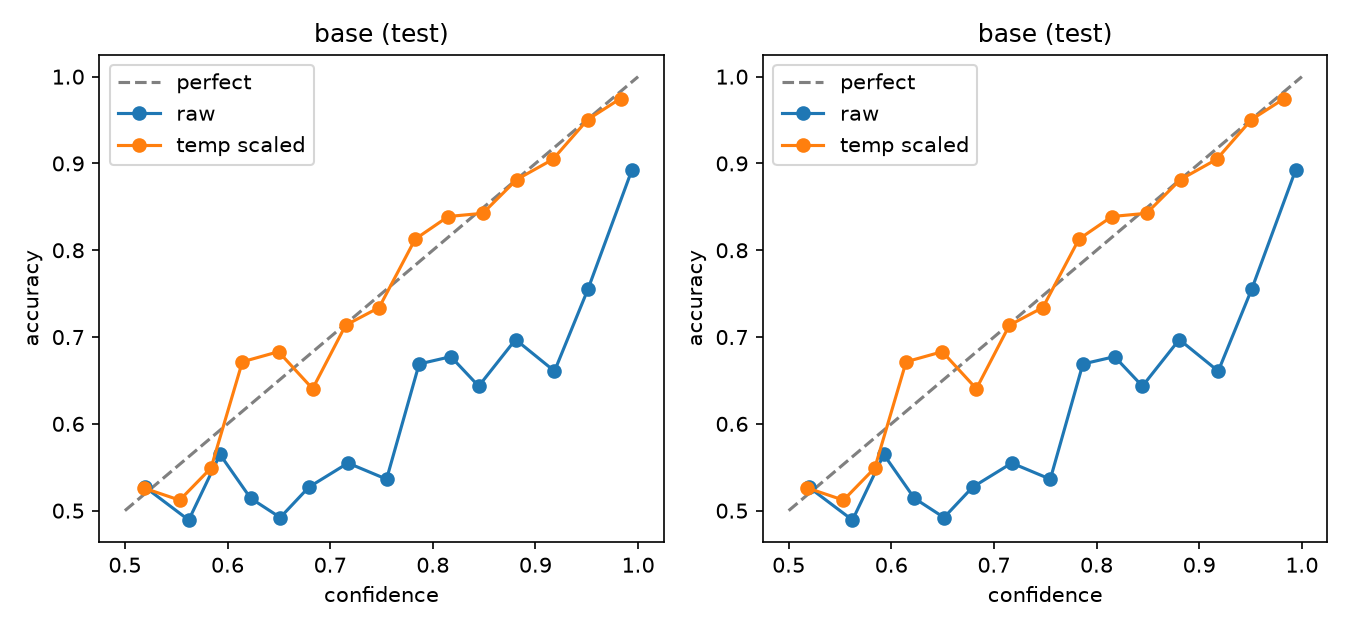
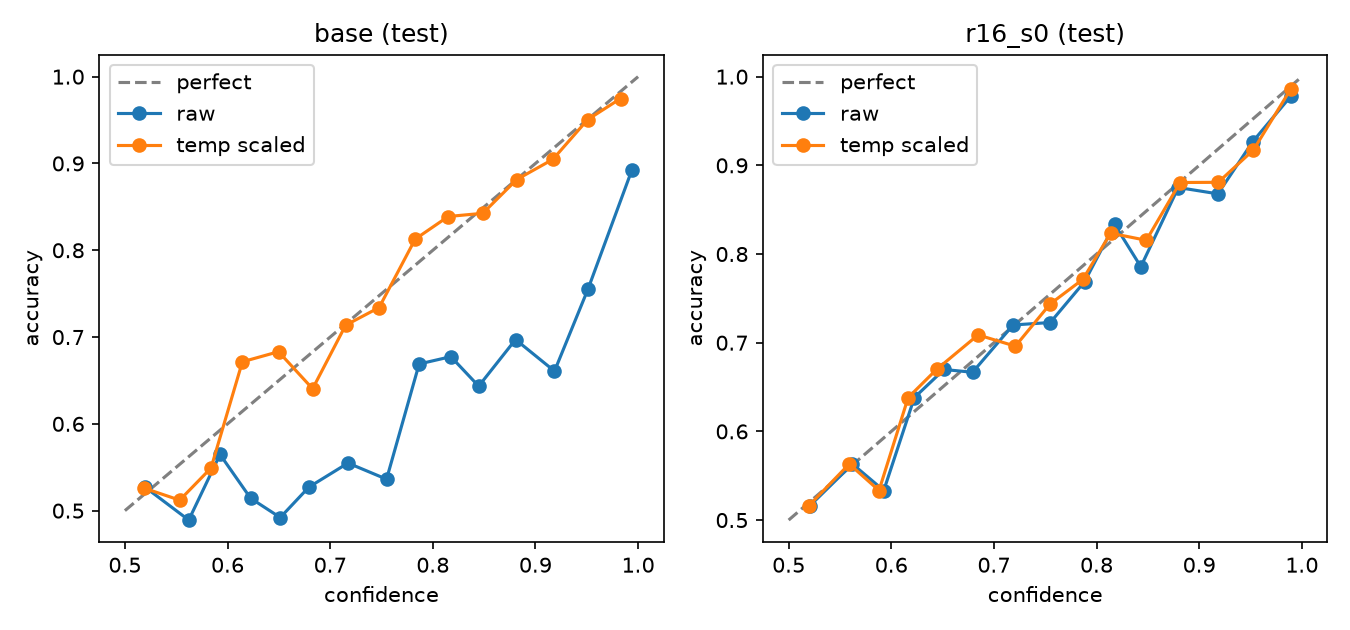
evaluate saved chkpt - base vs tuned report

diff --git a/evaluate.py b/evaluate.py
@@ -3,6 +3,7 @@ import torch
 from torch.utils.data import DataLoader
 from config import *
 from data import VSRDataset, Collate
+from lora import add_lora, load_lora
 from utils import *
 
 
@@ -28,12 +29,20 @@ def predict(model, loader, yes_id, no_id):
 if __name__ == "__main__":
     ap = argparse.ArgumentParser()
     ap.add_argument("--name", required=True)
+    ap.add_argument("--ckpt", default=None)
     ap.add_argument("--splits", nargs="+", default=["val", "test", "test_unseen"])
     ap.add_argument("--limit", type=int, default=None)
     args = ap.parse_args()
 
     model, processor = load_model()
     yes_id, no_id = answer_ids(processor)
+
+    if args.ckpt is not None:
+        ckpt = torch.load(args.ckpt, map_location="cpu")
+        cfg = ckpt["config"]
+        add_lora(model, cfg["rank"], cfg["alpha"], 0.0, cfg["targets"])
+        load_lora(model, ckpt["lora"])
+        print("loaded", args.ckpt, "from step", ckpt["val"]["step"])
 
     os.makedirs(PREDS, exist_ok=True)
     collate = Collate(processor)

diff --git a/tests/test_lora.py b/tests/test_lora.py
@@ -1,6 +1,6 @@
 import torch
 import torch.nn as nn
-from lora import LoRALinear, add_lora, count_params
+from lora import LoRALinear, add_lora, lora_state, load_lora, count_params
 
 
 class Block(nn.Module):
@@ -44,6 +44,19 @@ def test_gradient_reaches_lora():
     layer = model[0].q_proj
     assert layer.B.grad.abs().sum() > 0
     assert layer.base.weight.grad is None
+
+
+def test_save_and_load():
+    a = make()
+    add_lora(a, 4, 8, 0.0, ["q_proj", "v_proj"])
+    for name, p in a.named_parameters():
+        if p.requires_grad:
+            p.data.normal_()
+    b = make()
+    add_lora(b, 4, 8, 0.0, ["q_proj", "v_proj"])
+    load_lora(b, lora_state(a))
+    x = torch.randn(3, 8)
+    assert torch.allclose(a(x), b(x))
 
 
 def test_base_in_bf16():

diff --git a/lora.py b/lora.py
@@ -52,6 +52,12 @@ def lora_state(model):
     return state
 
 
+def load_lora(model, state):
+    params = dict(model.named_parameters())
+    for name in state:
+        params[name].data.copy_(state[name])
+
+
 def count_params(model):
     total = 0
     trainable = 0
